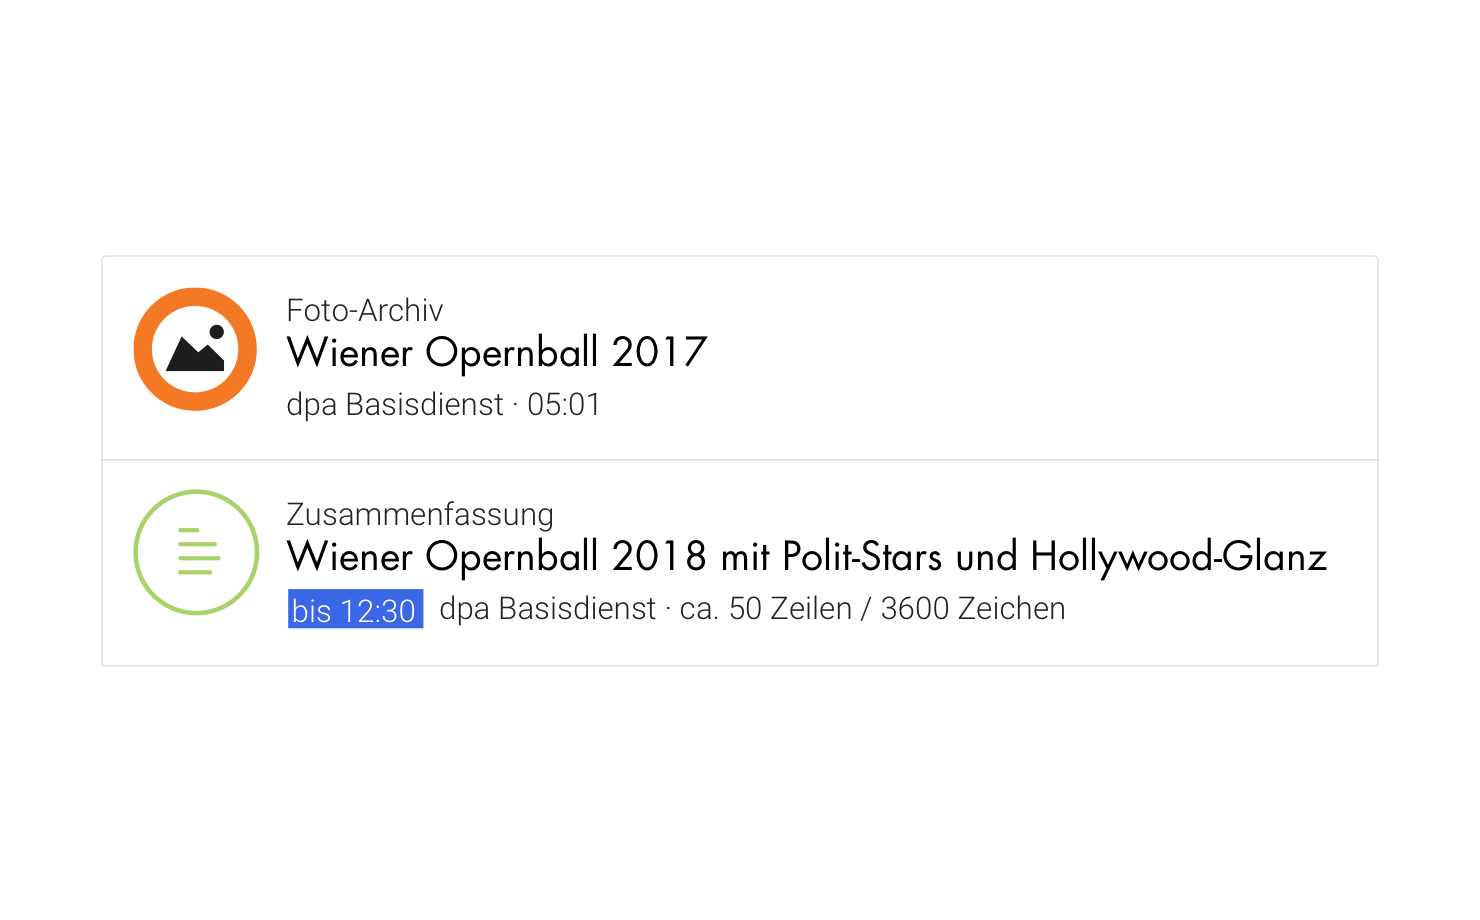
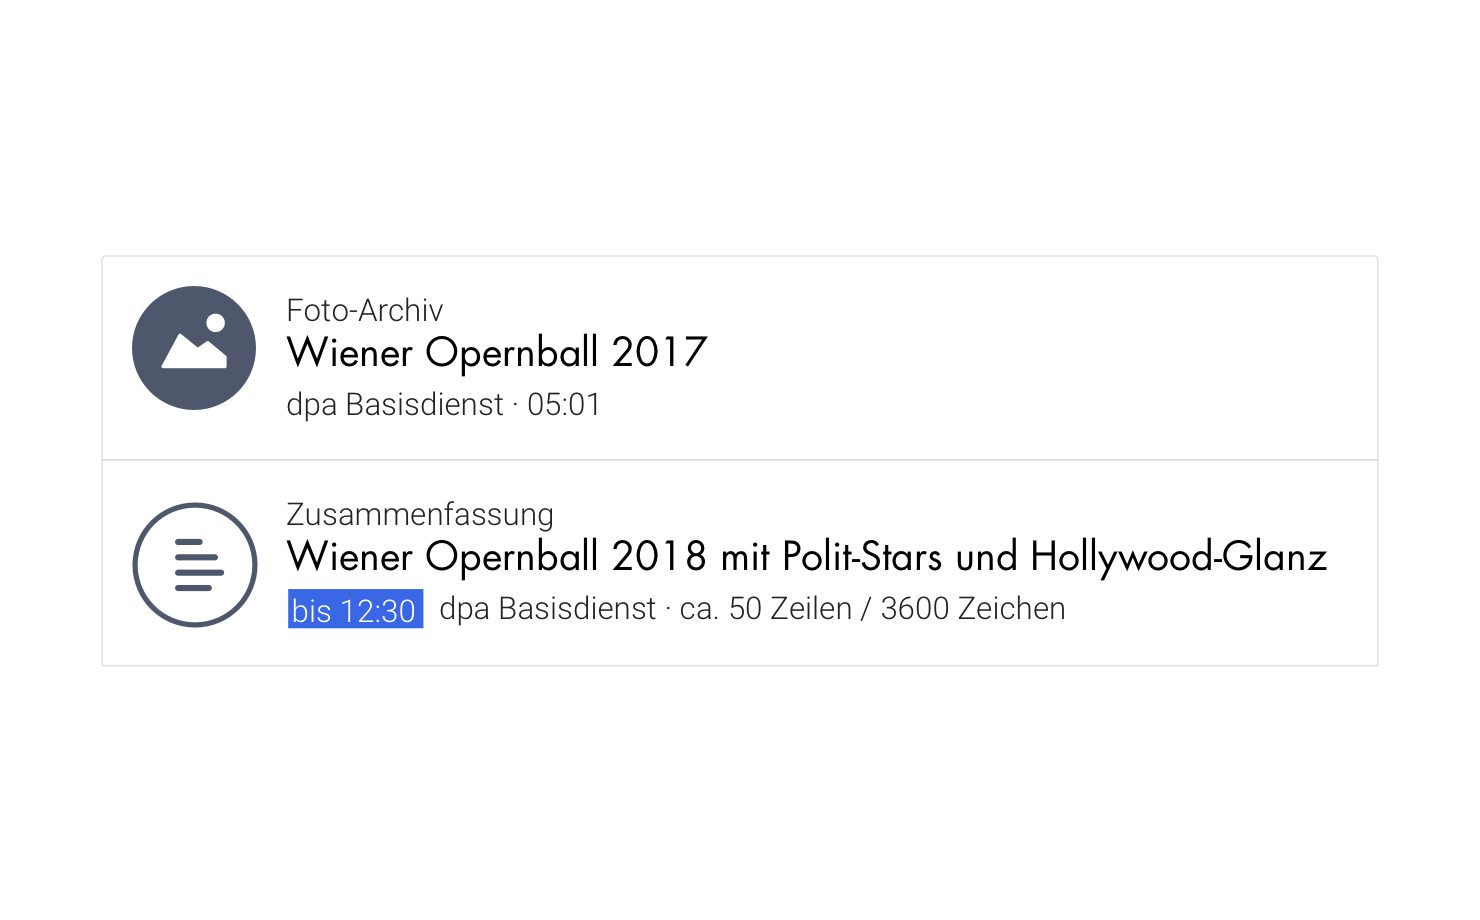
Update inhalte

Changed region(s): [[0.0622, 0.5174, 0.1865, 0.7], [0.0622, 0.3043, 0.1865, 0.4565]]

diff --git a/docs/werteinheiten-und-akteure/inhalt.md b/docs/werteinheiten-und-akteure/inhalt.md
@@ -30,10 +30,16 @@ Inhalte gibt es in unterschiedlichen *Medienformaten*. Inhalte werden in untersc
 
 Ein Inhalt ist eine handelbare Werteinheit auf dem Marktplatz. Inhalt ist in fast allen Tools der dpa präsent. Inhalt ist die Werteinheit, die  an Kunden ausgeliefert wird und für die Kunden heute bezahlt.
 
-
 ## Iterationsrichtung
 * Inhalt als Versprechen (geplant) und Inhalt manifest (gesendet) visuell strukturelle unterscheiden
 * Überprüfen in welcher UI-Form Abgrenzung von Paket und Inhalt gerechtfertigt ist
+
+<div class="cdk-Preview">
+
+![](./inhalt/inhalt-farbe.png)
+farbliche Abgrenzung
+
+</div>
 
 ## Ausprägung
 *  im Zustand des Versprechens (Planung), gesendet (manifestiert.)
